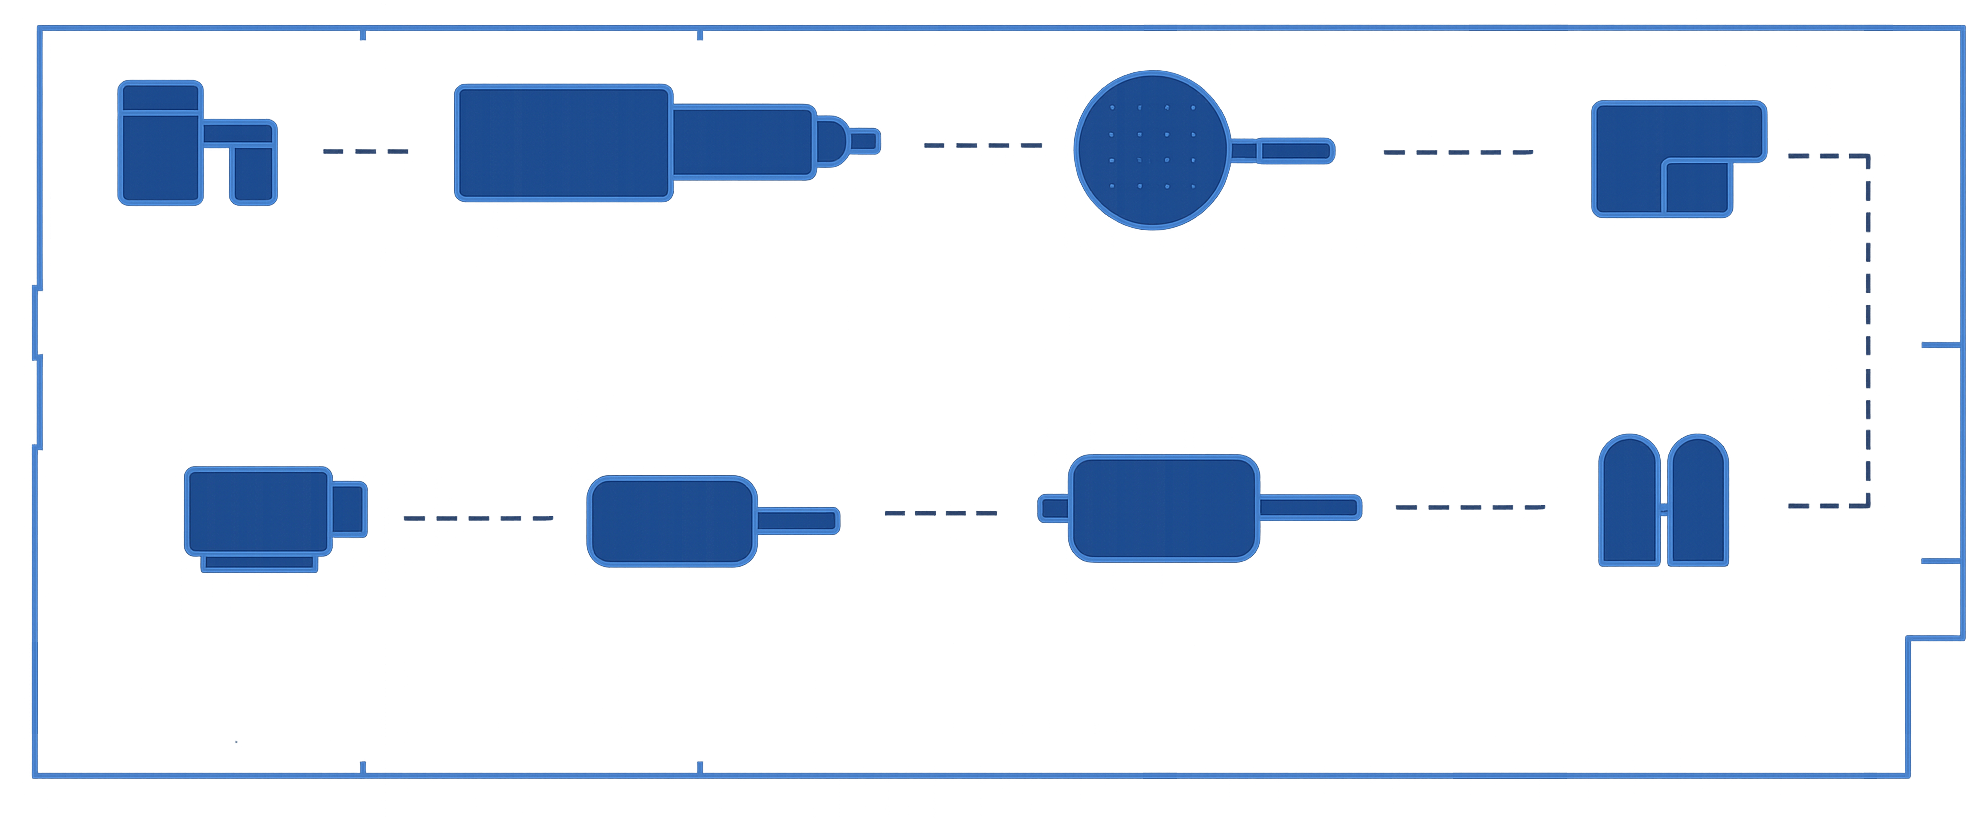
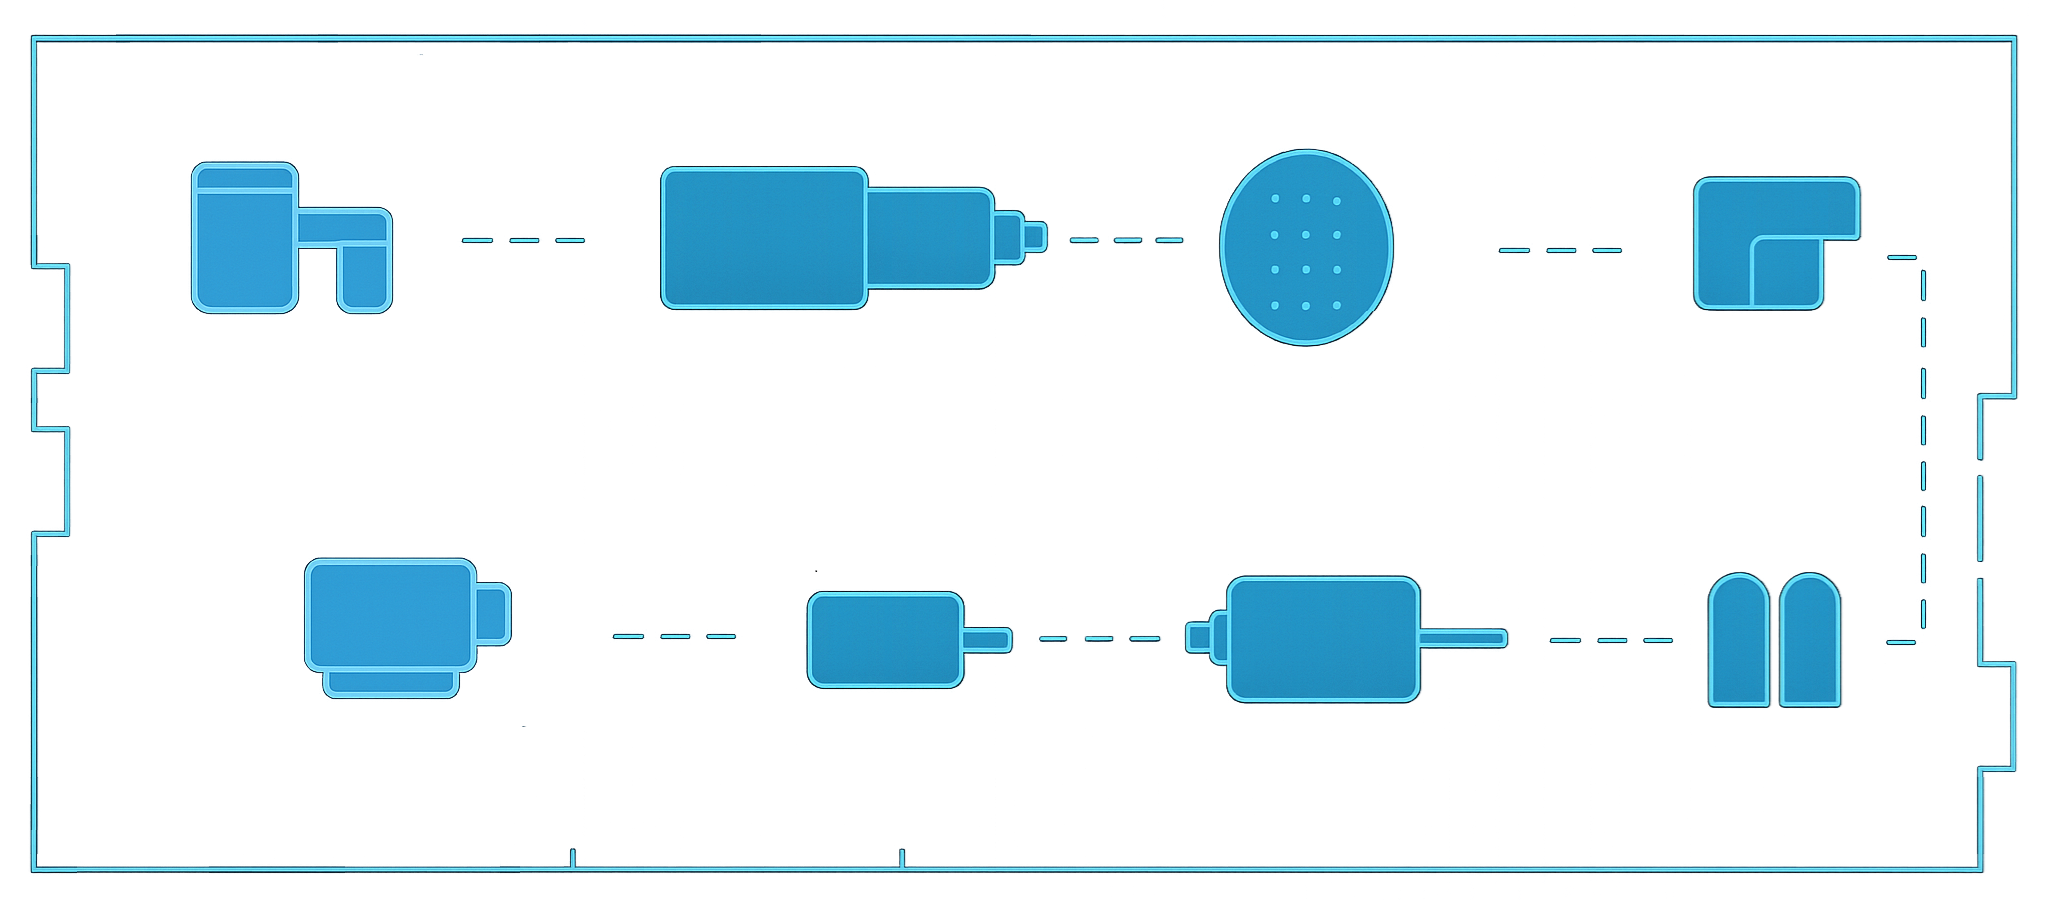
update image

Changed region(s): [[0.0, 0.0306, 0.9985, 0.978]]

diff --git a/src/mock/MockData.ts b/src/mock/MockData.ts
@@ -69,41 +69,41 @@ export const shopfloorMachineStatus = [
     {
         name: 'Dehumidifier',
         status: 1,
-        top: 27, left: 6.5
+        top: 35, left: 10
     },
     {
         name: 'Injection Moulding',
         status: 1,
-        top: 27, left:26.5
+        top: 35, left:32.5
     },
     {
         name: 'Mould Cooling',
         status: 1,
-        top:28, left:56.5
+        top:38, left:58
     },
     {
         name: 'Manual Trimming',
         status: 1,
-        top: 28, left:77
+        top: 10, left:79
     },
     {
         name: 'Plasma Treater',
         status: -1,
-        top: 68, left: 77.5
+        top:76, left: 80.5
     },
     {
         name: 'Ultrasonic Welder',
         status: 0,
-        top: 68, left:54
+        top: 76, left:58.5
     },
     {
         name: 'Inspection',
         status: 0,
-        top: 68, left:31
+        top: 74, left:39
     },
     {
         name: 'Assembly',
         status: 0,
-        top: 68, left: 9
+        top: 76, left: 15
     },
 ];
